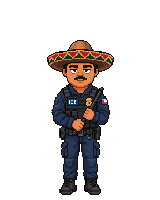
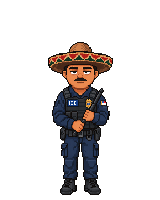
Перерисованный ICE заменил кадры девятого сентября
Саша перерисовала агента заново — сомбреро крупнее, лицо читается, фигура
плотнее, — и по решению Егора новые кадры встают на место старых, а не
живут рядом с ними вторым вариантом. Анфасный покой лежал только внутри
архива подкрепления, поэтому достаётся оттуда.

ICE убран из импортёра партии 9 сентября: иначе два инструмента писали бы
в одни и те же имена, и порядок запуска решал бы, чей кадр окажется в игре.
Исходники сомбреро в oil_baron_source/ остаются — они не удаляются.

Заодно чинится опора: выборка ближайшего пикселя промахивалась мимо
подошвы шириной в один исходный пиксель, и двое бойцов висели над полом
на пиксель выше остальных. Тест опоры это и поймал.

diff --git a/tools/import_oil_baron_2.py b/tools/import_oil_baron_2.py
@@ -13,8 +13,9 @@ BARON_SOURCE = ROOT / "art/oil_baron_source/3c7b93b3-863d-4147-ace2-d5f4182b1f2e
 # Охрана этой партии стреляет с колена, и рост тут больше не мера: боец на
 # колене ниже стоящего на треть, а нормировка по росту сделала бы из него
 # великана вровень со стоящим. Мерой служит головной убор — он один и тот же
-# в любой позе. Числа сняты с уже принятых кадров: каска на soldier*.png и
-# расстояние от полей сомбреро до пола на ice_agent*.png.
+# в любой позе. Числа сняты с кадров 9 сентября: каска на soldier*.png и
+# расстояние от полей сомбреро до пола на тогдашних ice_agent*.png, которые
+# этот же импортёр теперь перезаписывает.
 HELMET = 43.0
 SOMBRERO_DROP = 146.0
 
@@ -27,10 +28,13 @@ GUARDS = {
     "soldier_dark_kneel_front": "чёрный солдат_спереди_оружие_опущено(1).png",
 }
 
+# ICE перерисован заново и заменяет кадры 9 сентября — те остались только
+# исходниками, и их больше не воспроизводит import_oil_baron.py.
 ICE = {
-    "ice_agent_ready": "ice_idle.png",
-    "ice_agent_swing": "ice_attack_side.png",
-    "ice_agent_swing_front": "ice_attack_front.png",
+    "ice_agent": "ice_idle.png",
+    "ice_agent_front": "ice_idle_front.png",
+    "ice_agent_windup": "ice_attack_side.png",
+    "ice_agent_windup_front": "ice_attack_front.png",
 }
 
 BARON = {
@@ -87,6 +91,13 @@ def place(rgb, mask, scale, center_x, bottom, name):
     valid = (sy >= 0) & (sy < height) & (sx >= 0) & (sx < width)
     out[valid, :3] = rgb[sy[valid], sx[valid]]
     out[valid, 3] = np.where(mask[sy[valid], sx[valid]], 255, 0)
+    # Выборка может промахнуться мимо подошвы шириной в один исходный
+    # пиксель, и боец повисает над полом. Опора восстанавливается уже на
+    # готовом кадре — так же, как в импортёре партии 9 сентября.
+    shift = 194 - int(np.where(out[:, :, 3] > 0)[0].max())
+    if shift > 0:
+        out[shift:] = out[:-shift].copy()
+        out[:shift] = 0
     encode(out, ROOT / f"art/{name}.png")
     drawn = np.where(out[:, :, 3] > 0)[0]
     print(f"{name}: 160×200, опора (80,194), высота силуэта {drawn.max() - drawn.min() + 1}")

diff --git a/tools/import_oil_baron.py b/tools/import_oil_baron.py
@@ -1,5 +1,9 @@
 #!/usr/bin/env python3
-"""Импорт партии Саши от 9 сентября; исходники сохраняются рядом с игрой."""
+"""Импорт партии Саши от 9 сентября; исходники сохраняются рядом с игрой.
+
+ICE отсюда ушёл: 10 сентября он перерисован заново, и его кадры собирает
+import_oil_baron_2.py. Исходники сомбреро остались в oil_baron_source/.
+"""
 from pathlib import Path
 
 import numpy as np
@@ -8,16 +12,11 @@ from import_sprite import decode_rgba, encode, resize_to_height, trim
 
 ROOT = Path(__file__).resolve().parents[1]
 SOURCE = ROOT / "art/oil_baron_source"
-# Верх сомбреро замерен отдельно: поднятая дубинка не уменьшает тело.
 FRAMES = {
     "soldier": ("af8c76aa-5075-4358-a9cd-5abafbd411d3.png", 0),
     "soldier_front": ("01137e46-714d-4bb4-a9d3-7c59b696580a.png", 0),
     "soldier_dark": ("be728592-a995-4643-854f-9a0bdcc9ba10.png", 0),
     "soldier_dark_front": ("c37bde92-f3a1-42e1-a678-69dbc27daa52.png", 0),
-    "ice_agent": ("ice_agent_sombrero_side_godot.png", 0),
-    "ice_agent_front": ("ice_agent_sombrero_godot_cropped.png", 0),
-    "ice_agent_windup": ("ice_agent_sombrero_windup_side_godot.png", 155),
-    "ice_agent_windup_front": ("ice_agent_sombrero_windup_front_godot.png", 198),
 }
 
 

diff --git a/art/README.md b/art/README.md
@@ -98,8 +98,10 @@ tools/run.sh        # запустить стенд
 ### Партия «10.09 продолжение босс файта»
 
 Исходники целиком в `oil_baron_2_source/`, включая то, что в игру пока не
-едет. `python3 tools/import_oil_baron_2.py` собирает из них одиннадцать
-игровых кадров.
+едет. `python3 tools/import_oil_baron_2.py` собирает из них двенадцать
+игровых кадров. Четыре кадра ICE перерисованы заново и заменили кадры
+9 сентября — те остались только исходниками, и `import_oil_baron.py` их
+больше не воспроизводит.
 
 **Масштаб здесь считается по головному убору, а не по росту.** Охрана этой
 партии стреляет с колена, и нормировка по росту сделала бы коленопреклонённого
@@ -113,8 +115,8 @@ tools/run.sh        # запустить стенд
 | `soldier_fire.png`, `soldier_fire_front.png` | Светлокожий солдат стреляет с колена |
 | `soldier_dark_fire.png`, `soldier_dark_fire_front.png` | Тёмнокожий стреляет с колена |
 | `soldier_dark_kneel.png`, `soldier_dark_kneel_front.png` | Тёмнокожий на колене, оружие опущено |
-| `ice_agent_ready.png` | Перерисованный покой ICE в профиль |
-| `ice_agent_swing.png`, `ice_agent_swing_front.png` | Перерисованный замах дубинкой |
+| `ice_agent.png`, `ice_agent_front.png` | Перерисованный покой ICE, **заменил** кадр 9 сентября |
+| `ice_agent_windup.png`, `ice_agent_windup_front.png` | Перерисованный замах дубинкой, **заменил** кадр 9 сентября |
 | `oil_baron_call.png`, `oil_baron_down.png` | Барон зовёт подкрепление и барон повержен |
 
 Фазы барона режутся по рамке исходной качалки, а не по своей: у поверженного
@@ -129,13 +131,10 @@ tools/run.sh        # запустить стенд
 двое сидящих солдат. Игрового размера у них нет, пока нет механики, а
 назначать его вперёд механики — гадание.
 
-Открытые вопросы к Саше:
-
-- `солдат сидит и не стреляет.png` и `соладт сидит и не стреляет.png` — два
-  разных рисунка, а не поворот одного; по именам не разобрать, где какой
-- покой и замах ICE перерисованы заново. Заменяют ли они `ice_agent.png`
-  и `ice_agent_windup.png`, или в игре должны стоять оба варианта
-- `ненужно.png` в архиве подкрепления — выбросить или он ещё нужен
+`солдат сидит и не стреляет.png` и `соладт сидит и не стреляет.png` — два
+разных рисунка, а не поворот одного: Егор подтвердил 12 сентября, оба
+сохранены. `ненужно.png` из архива подкрепления выброшен и в репозиторий
+не переносился.
 
 ### Получение исходников
 
